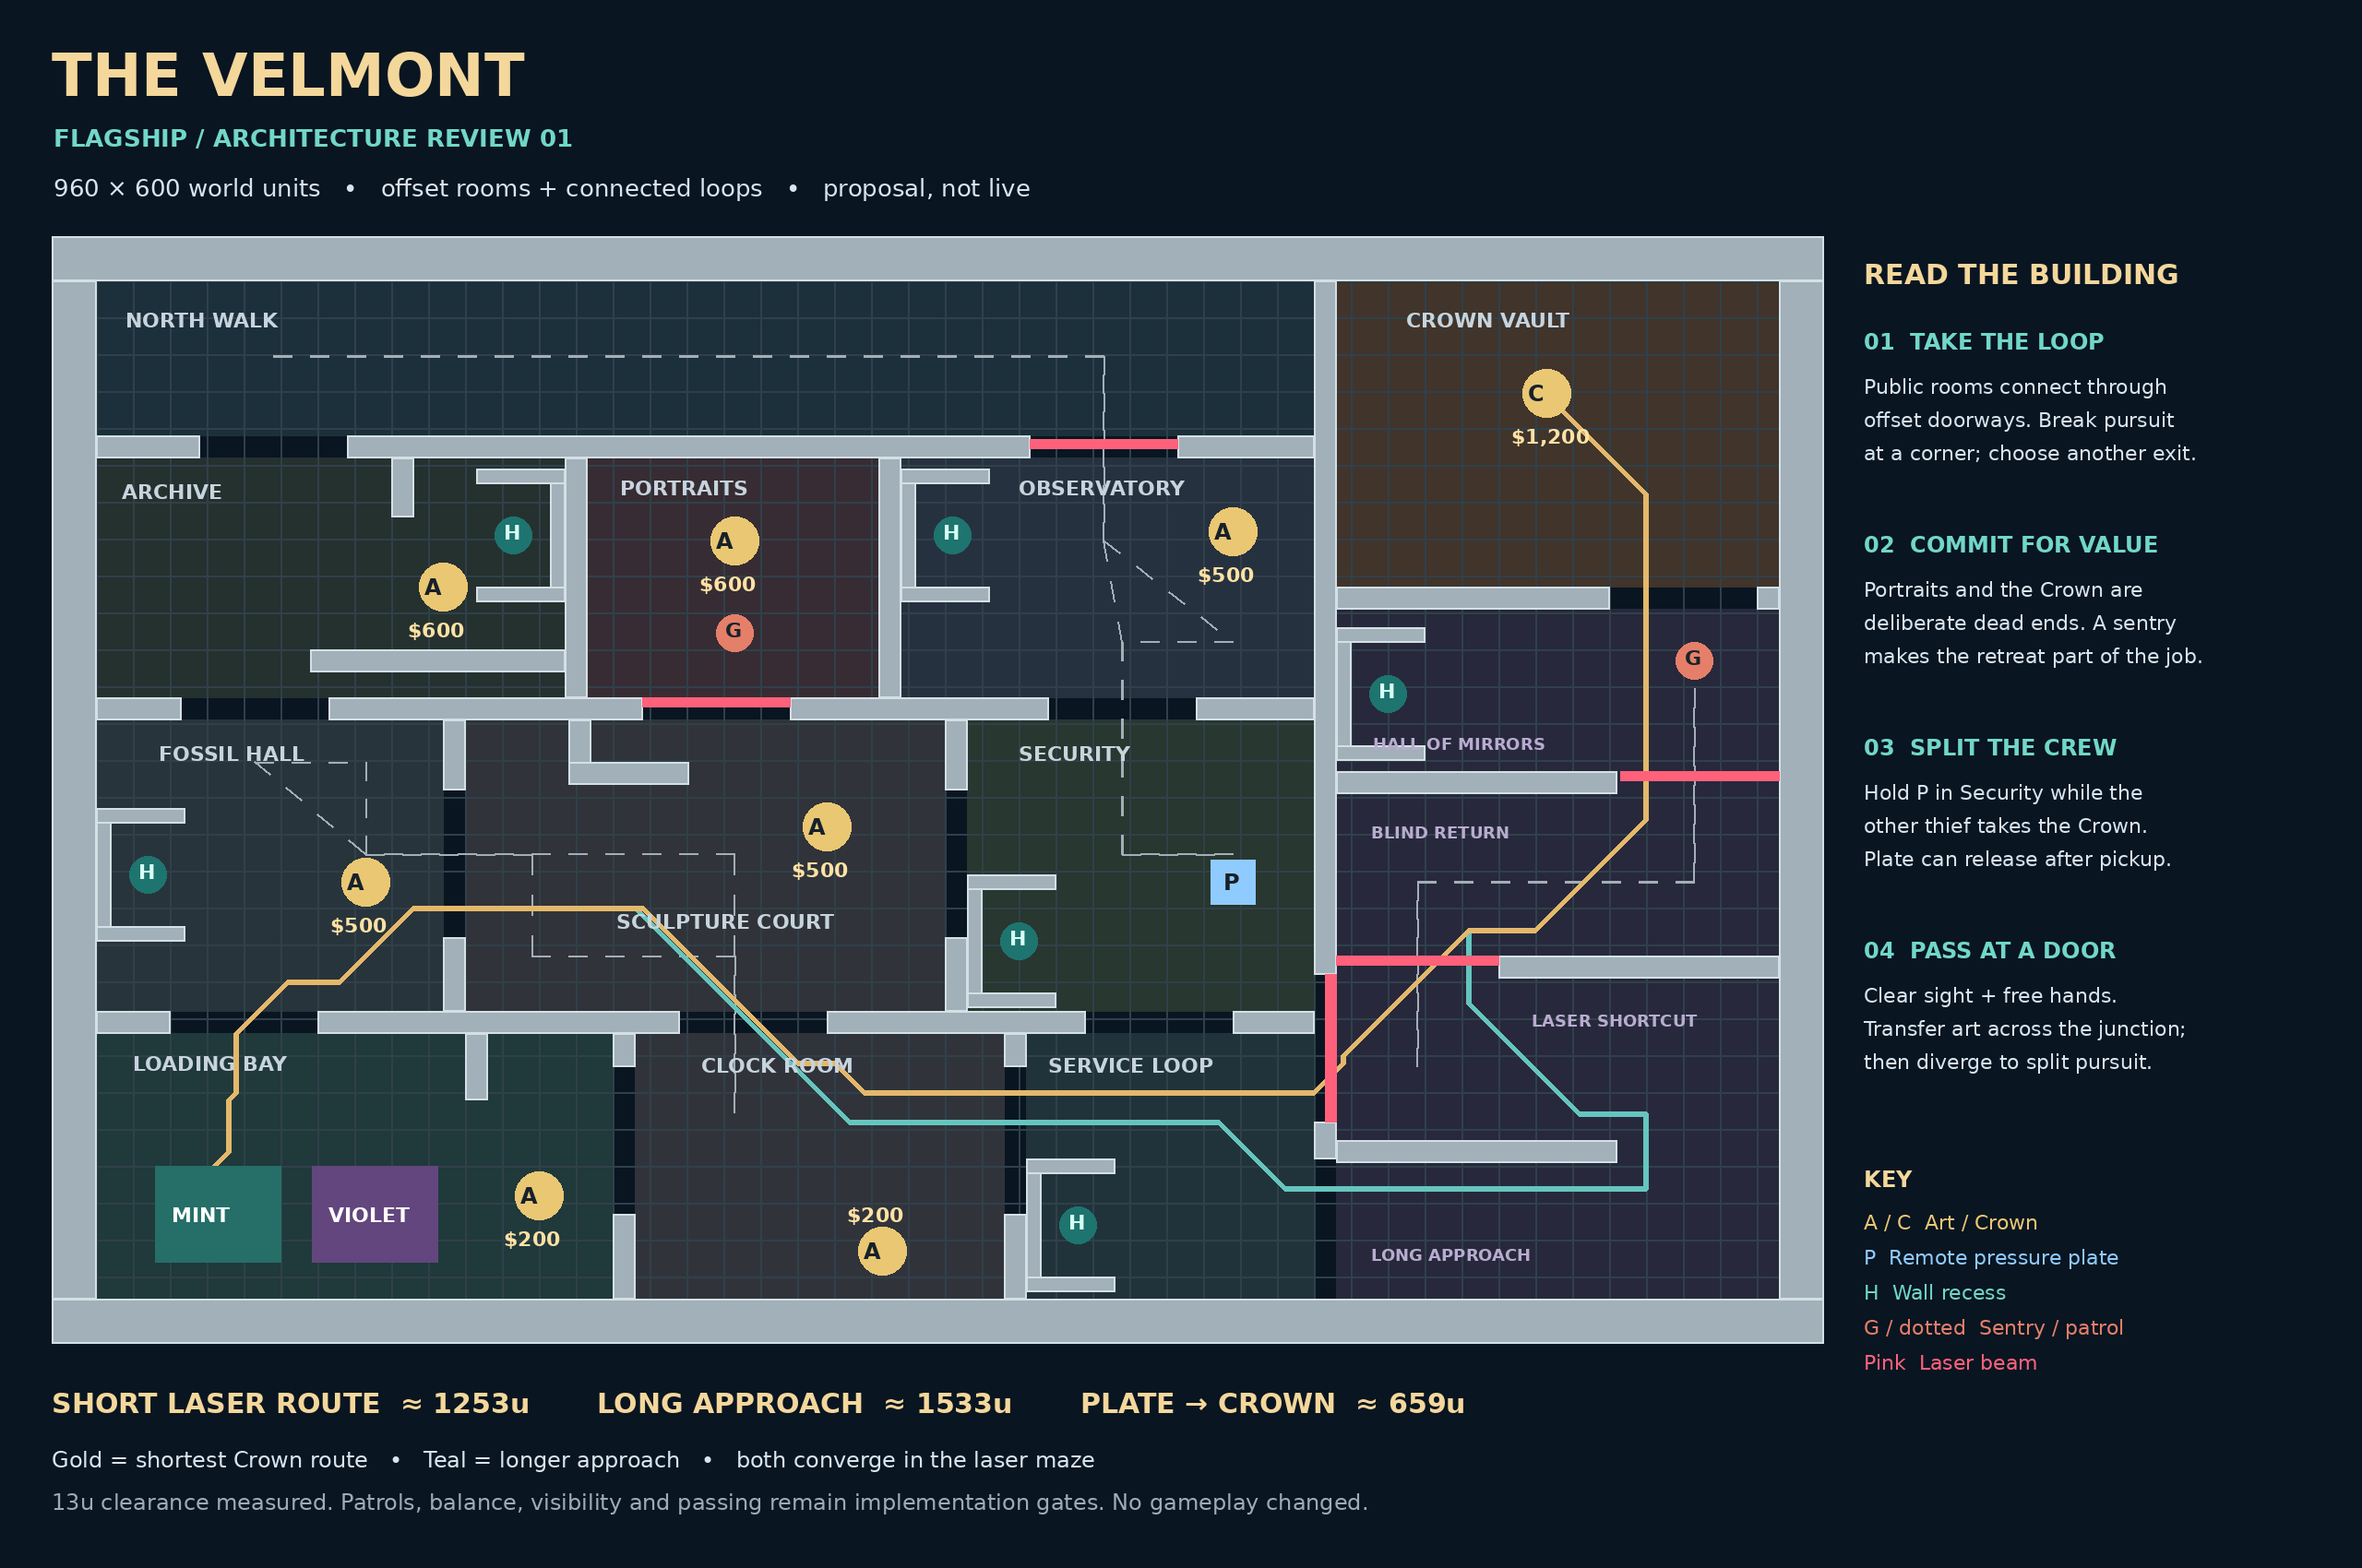
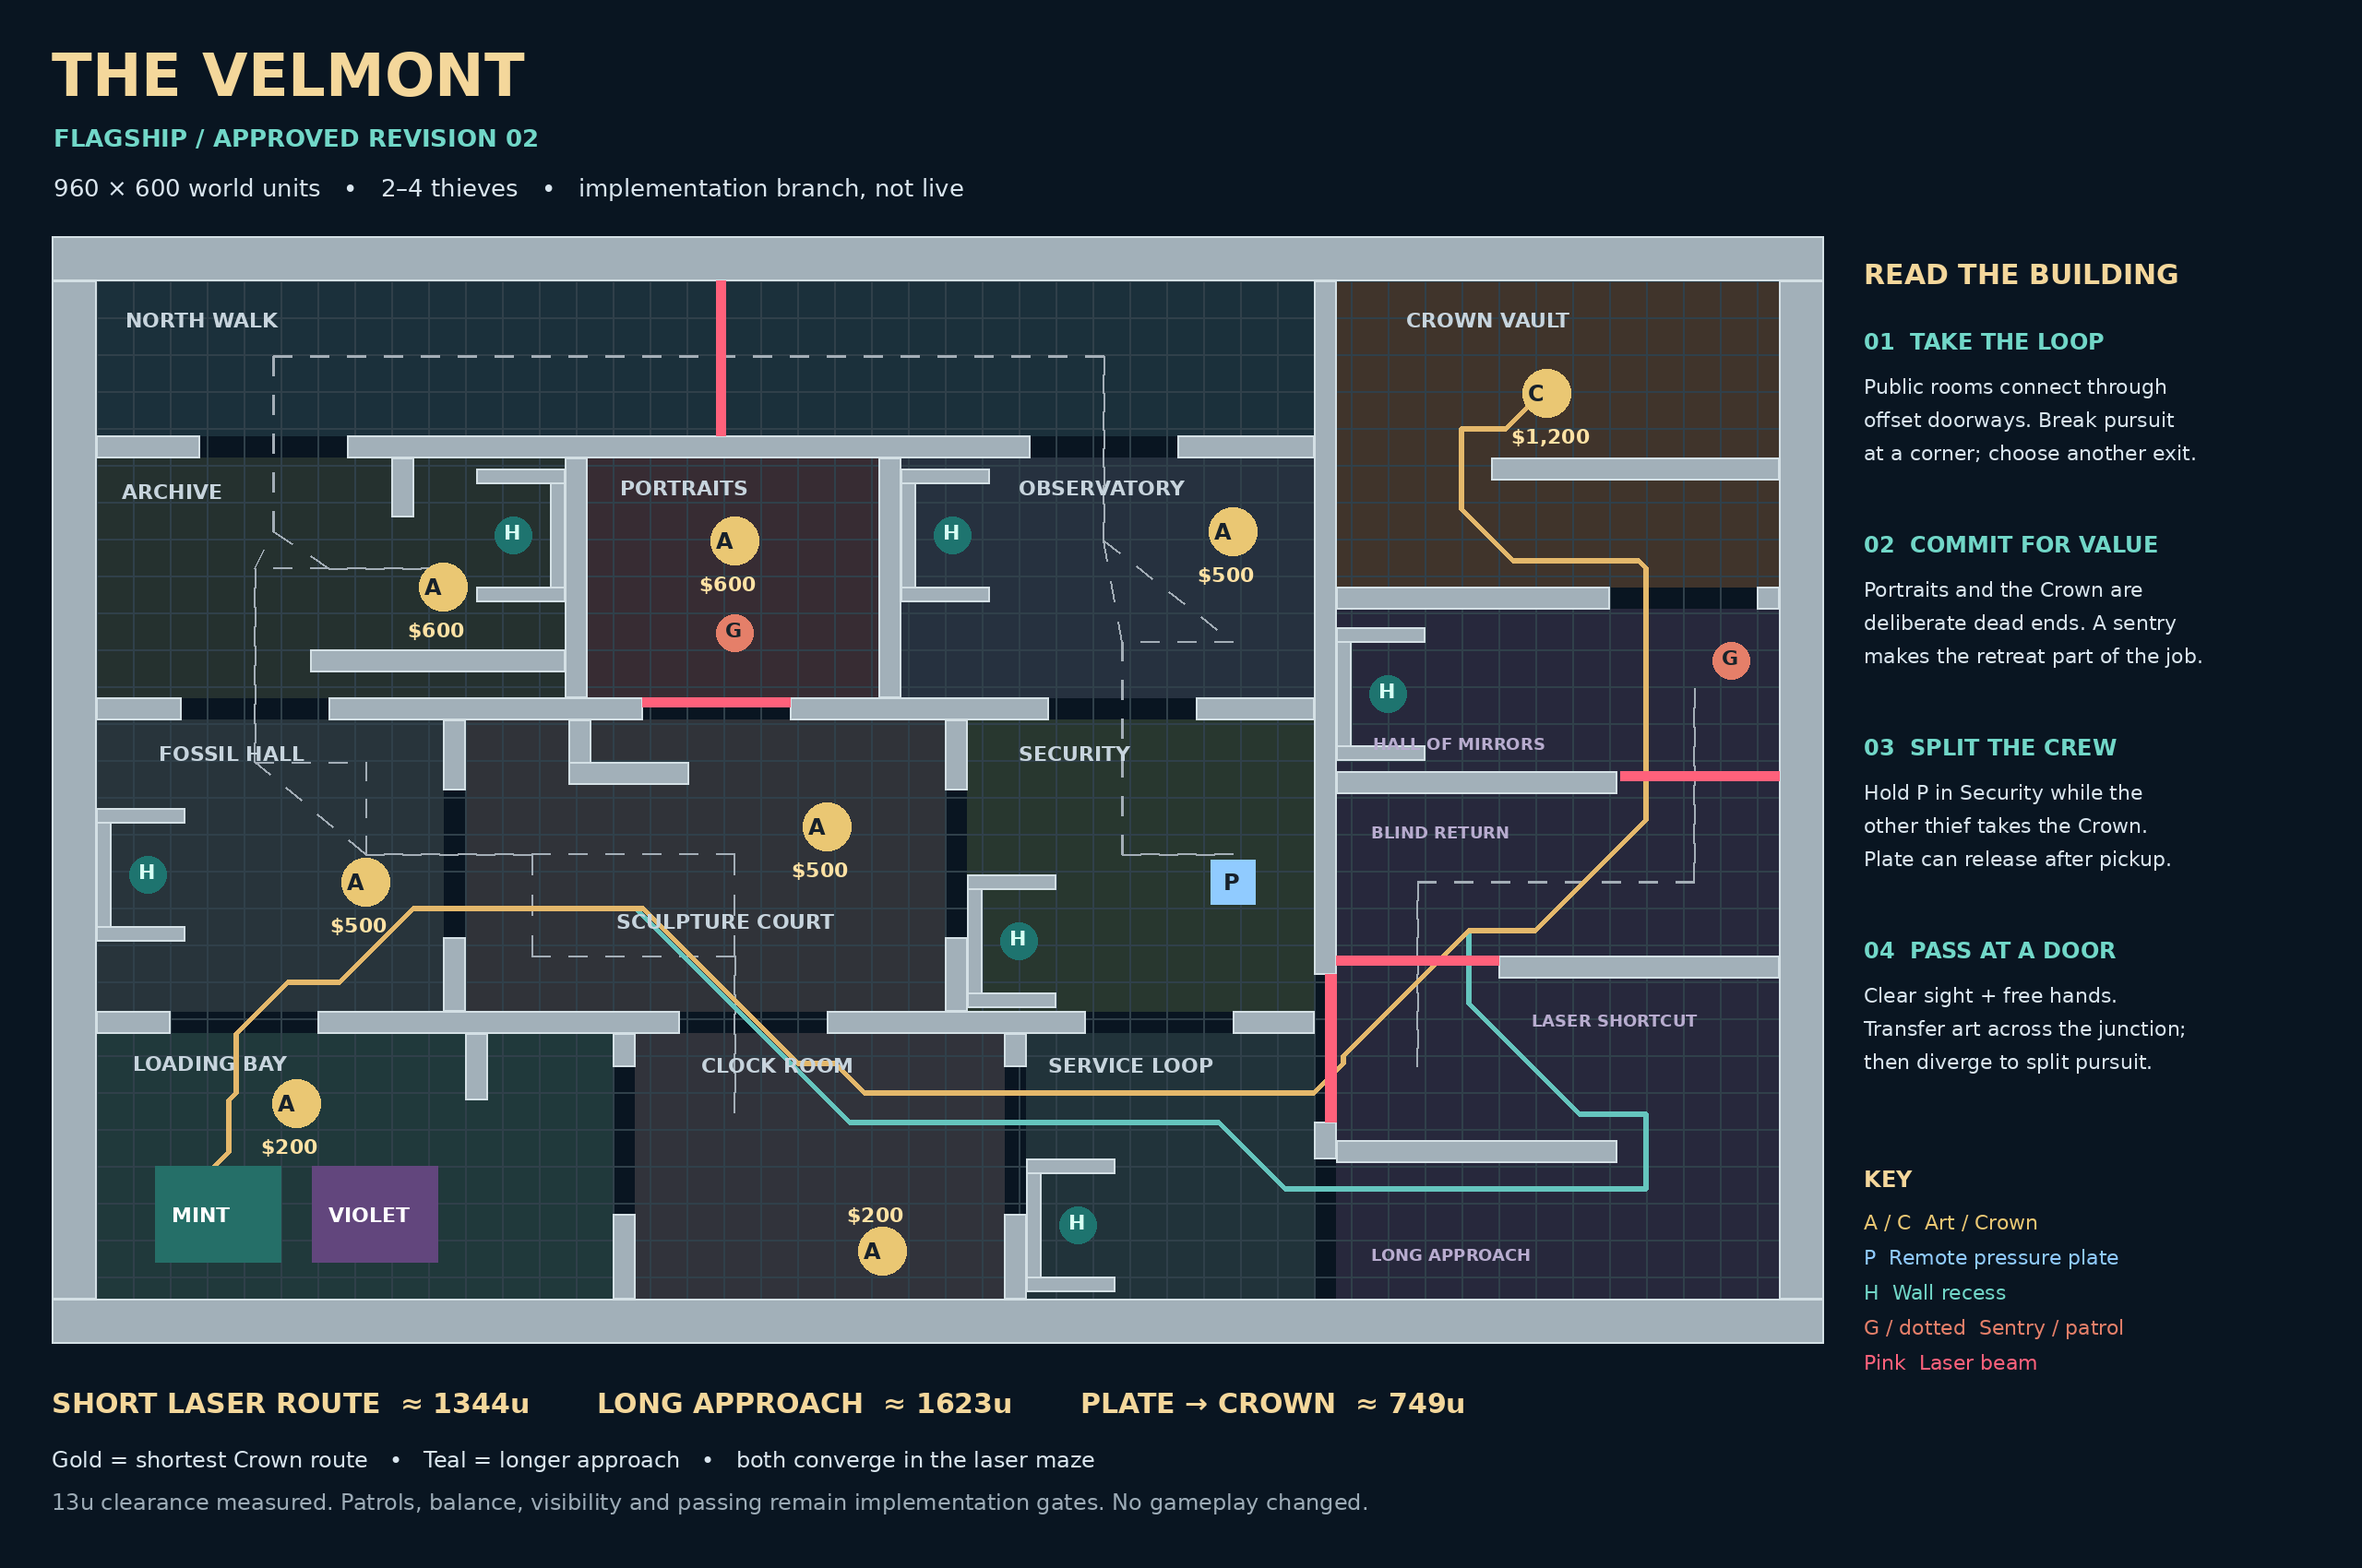
Revise approved flagship blueprint: vault switchback, shared loot and Archive patrol

diff --git a/lib/noise/flagship-arena.ts b/lib/noise/flagship-arena.ts
@@ -1,0 +1,16 @@
+// Authored flagship geometry; source: docs/flagship-velmont/blueprint.py.
+import type {MuseumArena} from './arenas.ts';
+const design = {"width":960,"height":600,"walls":[{"x":0,"y":0,"w":960,"h":24},{"x":0,"y":576,"w":960,"h":24},{"x":0,"y":24,"w":24,"h":552},{"x":936,"y":24,"w":24,"h":552},{"x":24,"y":108,"w":56,"h":12},{"x":160,"y":108,"w":370,"h":12},{"x":610,"y":108,"w":74,"h":12},{"x":24,"y":250,"w":46,"h":12},{"x":150,"y":250,"w":170,"h":12},{"x":400,"y":250,"w":140,"h":12},{"x":620,"y":250,"w":64,"h":12},{"x":24,"y":420,"w":40,"h":12},{"x":144,"y":420,"w":196,"h":12},{"x":420,"y":420,"w":140,"h":12},{"x":640,"y":420,"w":44,"h":12},{"x":278,"y":120,"w":12,"h":130},{"x":448,"y":120,"w":12,"h":130},{"x":212,"y":262,"w":12,"h":38},{"x":212,"y":380,"w":12,"h":40},{"x":484,"y":262,"w":12,"h":38},{"x":484,"y":380,"w":12,"h":40},{"x":304,"y":432,"w":12,"h":18},{"x":304,"y":530,"w":12,"h":46},{"x":516,"y":432,"w":12,"h":18},{"x":516,"y":530,"w":12,"h":46},{"x":684,"y":24,"w":12,"h":376},{"x":684,"y":480,"w":12,"h":20},{"x":696,"y":190,"w":148,"h":12},{"x":924,"y":190,"w":12,"h":12},{"x":780,"y":120,"w":156,"h":12},{"x":696,"y":290,"w":152,"h":12},{"x":784,"y":390,"w":152,"h":12},{"x":696,"y":490,"w":152,"h":12},{"x":184,"y":120,"w":12,"h":32},{"x":140,"y":224,"w":138,"h":12},{"x":280,"y":262,"w":12,"h":35},{"x":280,"y":285,"w":65,"h":12},{"x":224,"y":432,"w":12,"h":36},{"x":24,"y":310,"w":8,"h":72},{"x":24,"y":310,"w":48,"h":8},{"x":24,"y":374,"w":48,"h":8},{"x":270,"y":126,"w":8,"h":72},{"x":230,"y":126,"w":48,"h":8},{"x":230,"y":190,"w":48,"h":8},{"x":460,"y":126,"w":8,"h":72},{"x":460,"y":126,"w":48,"h":8},{"x":460,"y":190,"w":48,"h":8},{"x":496,"y":346,"w":8,"h":72},{"x":496,"y":346,"w":48,"h":8},{"x":496,"y":410,"w":48,"h":8},{"x":528,"y":500,"w":8,"h":72},{"x":528,"y":500,"w":48,"h":8},{"x":528,"y":564,"w":48,"h":8},{"x":696,"y":212,"w":8,"h":72},{"x":696,"y":212,"w":48,"h":8},{"x":696,"y":276,"w":48,"h":8}],"doors":[{"axis":"h","at":108,"start":80,"end":160,"width":80},{"axis":"h","at":108,"start":530,"end":610,"width":80},{"axis":"h","at":250,"start":70,"end":150,"width":80},{"axis":"h","at":250,"start":320,"end":400,"width":80},{"axis":"h","at":250,"start":540,"end":620,"width":80},{"axis":"h","at":420,"start":64,"end":144,"width":80},{"axis":"h","at":420,"start":340,"end":420,"width":80},{"axis":"h","at":420,"start":560,"end":640,"width":80},{"axis":"v","at":212,"start":300,"end":380,"width":80},{"axis":"v","at":484,"start":300,"end":380,"width":80},{"axis":"v","at":304,"start":450,"end":530,"width":80},{"axis":"v","at":516,"start":450,"end":530,"width":80},{"axis":"v","at":684,"start":400,"end":480,"width":80},{"axis":"v","at":684,"start":500,"end":576,"width":76},{"axis":"h","at":190,"start":844,"end":924,"width":80}],"rooms":[["NORTH WALK",24,24,660,84],["ARCHIVE STACKS",24,120,254,130],["PORTRAIT GALLERY",290,120,158,130],["OBSERVATORY",460,120,224,130],["FOSSIL HALL",24,262,188,158],["SCULPTURE COURT",224,262,260,158],["SECURITY OFFICE",496,262,188,158],["LOADING BAY",24,432,280,144],["CLOCK ROOM",316,432,200,144],["SERVICE LOOP",528,432,156,144],["CROWN VAULT",696,24,240,166],["HALL OF MIRRORS",696,202,240,374]],"arts":[{"name":"Bay relic","x":132.5,"y":470,"value":200},{"name":"Clockwork","x":450,"y":550,"value":200},{"name":"Fossil folio","x":170,"y":350,"value":500},{"name":"Sculpture","x":420,"y":320,"value":500},{"name":"Star atlas","x":640,"y":160,"value":500},{"name":"Archive masterwork","x":212,"y":190,"value":600},{"name":"Portrait masterwork","x":370,"y":165,"value":600},{"name":"Crown","x":810,"y":85,"value":1200}],"plate":{"x":640,"y":350},"docks":[{"x":90,"y":530},{"x":175,"y":530}],"hides":[{"x":52,"y":346},{"x":250,"y":162},{"x":488,"y":162},{"x":524,"y":382},{"x":556,"y":536},{"x":724,"y":248}],"lasers":[{"x":690,"y":400,"w":6,"h":80},{"x":320,"y":250,"w":80,"h":5},{"x":696,"y":390,"w":88,"h":5},{"x":850,"y":290,"w":86,"h":5},{"x":360,"y":24,"w":5,"h":84}],"guardRoutes":[[[110,285],[170,285],[170,335],[260,335],[260,390],[370,390],[370,475],[370,390],[370,335],[170,335],[110,285]],[[120,65],[570,65],[570,165],[640,220],[580,220],[580,335],[640,335],[580,335],[580,220],[570,165],[570,65],[120,65]],[[740,450],[740,350],[890,350],[890,245],[890,350],[740,350],[740,450]],[[120,65],[120,160],[150,180],[210,180],[150,180],[110,180],[110,285],[110,180],[120,160],[120,65]]],"sentries":[{"x":370,"y":215},{"x":910,"y":230}]};
+export function flagshipArena(players:number):MuseumArena {
+ const d=structuredClone(design), point=(p:number[])=>({x:p[0],y:p[1]});
+ const order=[0,1,7,2,5,6,3,4];
+ const routes=d.guardRoutes.map(r=>r.map(point));
+ return {id:'flagship-velmont',name:'The Velmont',capacity:players<=2?2:4,theme:'sculpture',
+ brief:'A building of blind corners. Crown opens at 1:00. Hold Security’s plate; its alarm stays on the carrier. Noise on you brings guards to you. Noise elsewhere sends them there.',
+ walls:d.walls,slots:order.map(i=>({x:d.arts[i].x,y:d.arts[i].y})),plate:d.plate,
+ routes:[routes[0],routes[3],routes[1],routes[2],routes[0],routes[1]],
+ niches:d.hides.map(p=>({...p,back:'left',kind:'recess'})),
+ rooms:d.rooms.map(r=>({name:String(r[0]),x:Number(r[1])+Number(r[3])/2,y:Number(r[2])+25})),
+ sensors:d.lasers,decor:[],doors:[{x:120,y:65},{x:570,y:65},{x:890,y:245}],
+ docks:d.docks,posts:d.sentries};
+}

diff --git a/lib/noise/arenas.ts b/lib/noise/arenas.ts
@@ -2133,7 +2133,7 @@ export const AUTHORED_COOP = [
 // Current museum plans: authored independently, with population-specific circulation.
 export type MuseumPoint={x:number;y:number};
 export type MuseumRect=MuseumPoint&{w:number;h:number};
-export type MuseumArena={id:string;name:string;capacity:2|4|6;theme:'sculpture'|'fossil'|'celestial';brief:string;walls:MuseumRect[];slots:MuseumPoint[];plate:MuseumPoint;routes:MuseumPoint[][];niches:(MuseumPoint&{back:string;kind:string})[];rooms:(MuseumPoint&{name:string})[];sensors:MuseumRect[];decor:(MuseumRect&{kind:string})[];doors:MuseumPoint[]};
+export type MuseumArena={docks?:MuseumPoint[];posts?:MuseumPoint[];id:string;name:string;capacity:2|4|6;theme:'sculpture'|'fossil'|'celestial';brief:string;walls:MuseumRect[];slots:MuseumPoint[];plate:MuseumPoint;routes:MuseumPoint[][];niches:(MuseumPoint&{back:string;kind:string})[];rooms:(MuseumPoint&{name:string})[];sensors:MuseumRect[];decor:(MuseumRect&{kind:string})[];doors:MuseumPoint[]};
 const pt=(x:number,y:number)=>({x,y});
 const box=(x:number,y:number,w:number,h:number)=>({x,y,w,h});
 export function museumArena(layout:number,players:number):MuseumArena{

diff --git a/docs/flagship-velmont/blueprint.py b/docs/flagship-velmont/blueprint.py
@@ -26,6 +26,7 @@ wall('v',304,432,576,[(450,530)])
 wall('v',516,432,576,[(450,530)])
 wall('v',684,24,576,[(400,480),(500,576)])
 wall('h',190,696,936,[(844,924)])
+rect(780,120,156,12) # Vault return forces the final left-right switchback.
 # Secure wing: alternating wall returns force decisions at blind corners.
 rect(696,290,152,12);rect(784,390,152,12);rect(696,490,152,12)
 # Archive shelving and gallery L-return, attached to existing room fabric.
@@ -50,18 +51,37 @@ rooms=[('NORTH WALK',24,24,660,84),('ARCHIVE STACKS',24,120,254,130),
 ('CLOCK ROOM',316,432,200,144),('SERVICE LOOP',528,432,156,144),
 ('CROWN VAULT',696,24,240,166),('HALL OF MIRRORS',696,202,240,374)]
 arts=[dict(name=n,x=x,y=y,value=v) for n,x,y,v in [
-('Bay relic',264,520,200),('Clockwork',450,550,200),('Fossil folio',170,350,500),
+('Bay relic',132.5,470,200),('Clockwork',450,550,200),('Fossil folio',170,350,500),
 ('Sculpture',420,320,500),('Star atlas',640,160,500),('Archive masterwork',212,190,600),
 ('Portrait masterwork',370,165,600),('Crown',810,85,1200)]]
 plate=dict(x=640,y=350); docks=[dict(x=90,y=530),dict(x=175,y=530)]
 lasers=[dict(x=690,y=400,w=6,h=80),dict(x=320,y=250,w=80,h=5),
-dict(x=696,y=390,w=88,h=5),dict(x=850,y=290,w=86,h=5),dict(x=530,y=110,w=80,h=5)]
+dict(x=696,y=390,w=88,h=5),dict(x=850,y=290,w=86,h=5),dict(x=360,y=24,w=5,h=84)]
 guards=[[(110,285),(170,285),(170,335),(260,335),(260,390),(370,390),(370,475),(370,390),(370,335),(170,335),(110,285)],
 [(120,65),(570,65),(570,165),(640,220),(580,220),(580,335),(640,335),(580,335),(580,220),(570,165),(570,65),(120,65)],
 [(740,450),(740,350),(890,350),(890,245),(890,350),(740,350),(740,450)]]
-sentries=[dict(x=370,y=215),dict(x=890,y=230)]
+guards.append([(120,65),(120,160),(150,180),(210,180),(150,180),(110,180),(110,285),(110,180),(120,160),(120,65)])
+sentries=[dict(x=370,y=215),dict(x=910,y=230)]
 data=dict(width=960,height=600,walls=walls,doors=doors,rooms=rooms,arts=arts,plate=plate,docks=docks,hides=hides,lasers=lasers,guardRoutes=guards,sentries=sentries)
 (OUT/'blueprint.json').write_text(json.dumps(data,indent=2)+'\n')
+module='''// Authored flagship geometry; source: docs/flagship-velmont/blueprint.py.
+import type {MuseumArena} from './arenas.ts';
+const design = '''+json.dumps(data,separators=(',',':'))+''';
+export function flagshipArena(players:number):MuseumArena {
+ const d=structuredClone(design), point=(p:number[])=>({x:p[0],y:p[1]});
+ const order=[0,1,7,2,5,6,3,4];
+ const routes=d.guardRoutes.map(r=>r.map(point));
+ return {id:'flagship-velmont',name:'The Velmont',capacity:players<=2?2:4,theme:'sculpture',
+ brief:'A building of blind corners. Crown opens at 1:00. Hold Security’s plate; its alarm stays on the carrier. Noise on you brings guards to you. Noise elsewhere sends them there.',
+ walls:d.walls,slots:order.map(i=>({x:d.arts[i].x,y:d.arts[i].y})),plate:d.plate,
+ routes:[routes[0],routes[3],routes[1],routes[2],routes[0],routes[1]],
+ niches:d.hides.map(p=>({...p,back:'left',kind:'recess'})),
+ rooms:d.rooms.map(r=>({name:String(r[0]),x:Number(r[1])+Number(r[3])/2,y:Number(r[2])+25})),
+ sensors:d.lasers,decor:[],doors:[{x:120,y:65},{x:570,y:65},{x:890,y:245}],
+ docks:d.docks,posts:d.sentries};
+}
+'''
+(OUT.parent.parent/'lib/noise/flagship-arena.ts').write_text(module)
 
 # Conservative square-inflated clearance exactly matches engine clear(p,13).
 def clear(p,extra=()):
@@ -107,8 +127,8 @@ def box(x,y,w,h,c,outline=None):d.rectangle((x*S,y*S,(x+w)*S,(y+h)*S),fill=c,out
 def line(points,color,width=2):d.line([(int((x+28)*S),int((y+128)*S)) for x,y in points],fill=color,width=width*S,joint='curve')
 def dot(x,y,r,c):d.ellipse(((x+28-r)*S,(y+128-r)*S,(x+28+r)*S,(y+128+r)*S),fill=c)
 text(28,22,'THE VELMONT',32,'#f4d79b',True)
-text(29,67,'FLAGSHIP / ARCHITECTURE REVIEW 01',13,'#71d7c8',True)
-text(29,94,'960 × 600 world units   •   offset rooms + connected loops   •   proposal, not live',13)
+text(29,67,'FLAGSHIP / APPROVED REVISION 02',13,'#71d7c8',True)
+text(29,94,'960 × 600 world units   •   2–4 thieves   •   implementation branch, not live',13)
 colors=['#1b303b','#25312f','#372c33','#26313f','#28343b','#303339','#28372f','#20393b','#31333b','#21333a','#40342b','#27283c']
 for (name,x,y,w,h),c in zip(rooms,colors):box(x+28,y+128,w,h,c)
 for x in range(24,937,20):line([(x,24),(x,576)],'#30404a',1)
